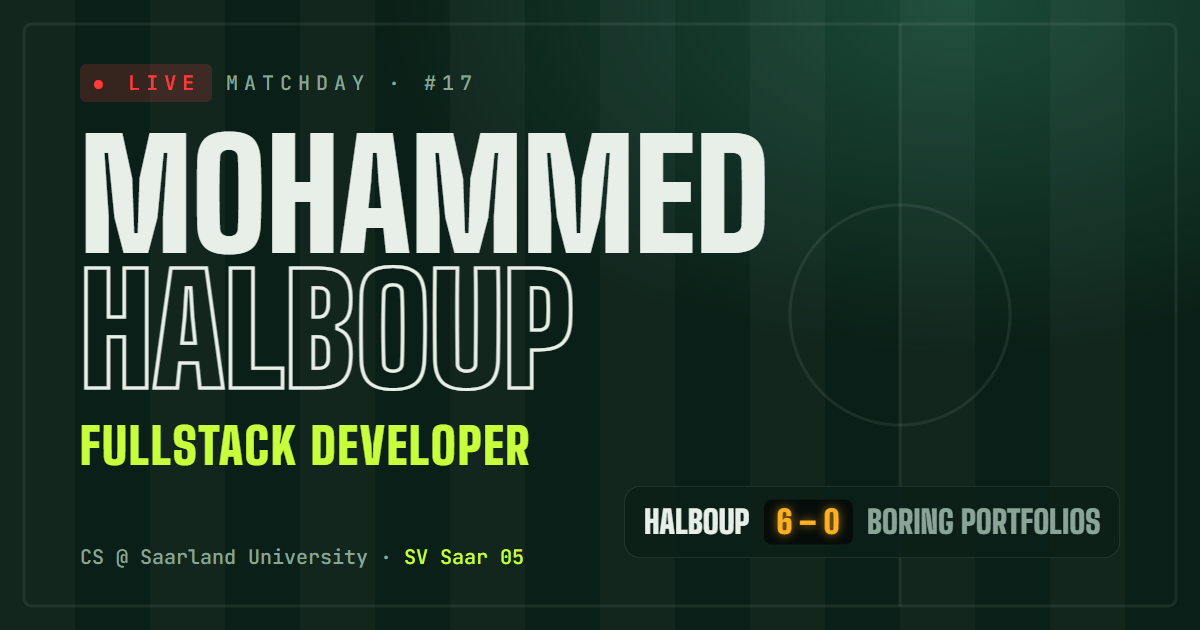
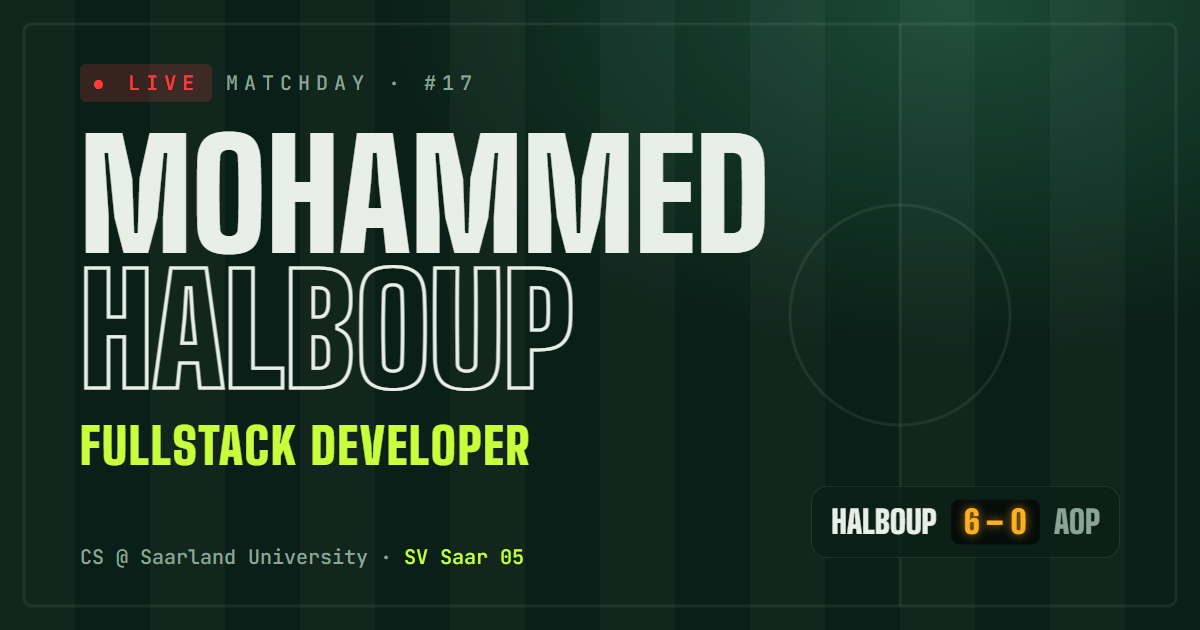
feat: the opponent is now AOP, explained by a new aop VAR command
AOP replaces "Boring Portfolios" on the scoreboard, half-time stats,
footer and OG image. `aop` in the VAR explains it (Aspect-Oriented
Programming... but here, Any Other Portfolio), and the half-time strip
has an "Ask the VAR" link that opens the VAR and runs it.

Changed region(s): [[0.5242, 0.7841, 0.925, 0.8746]]

diff --git a/src/config/ui.ts b/src/config/ui.ts
@@ -8,7 +8,11 @@ export const PLAYER = {
   club: "SV Saar 05",
   uni: "Saarland University",
   uniShort: "UdS",
-  rival: "Boring Portfolios",
+  rival: "AOP",
+  rivalMeaning: [
+    "AOP stands for Aspect-Oriented Programming: A programming paradigm that helps separate cross-cutting concerns (like logging, security, or transaction management) from core business logic.",
+    "But here and in this portfolio, it means Any Other Portfolio",
+  ],
 };
 
 // Match minute each section "kicks off" at, used by the scoreboard clock.
@@ -62,7 +66,9 @@ export interface FormationSlot {
 export const formationSlots = (count: number): FormationSlot[] => {
   const rows =
     FORMATIONS[count] ??
-    Array.from({ length: Math.ceil(count / 4) }, (_, i) => Math.min(4, count - i * 4));
+    Array.from({ length: Math.ceil(count / 4) }, (_, i) =>
+      Math.min(4, count - i * 4),
+    );
   const slots: FormationSlot[] = [];
   rows.forEach((size, row) => {
     const y = rows.length === 1 ? 50 : 18 + (row * 64) / (rows.length - 1);
@@ -76,11 +82,14 @@ export const formationSlots = (count: number): FormationSlot[] => {
 // Squad numbers for projects. #17 is reserved for Mohammed.
 const SQUAD_NUMBERS = [9, 10, 7, 11, 8, 6, 4, 5, 3, 2, 14, 21, 23];
 
-export const squadNumber = (index: number) => SQUAD_NUMBERS[index] ?? index + 24;
+export const squadNumber = (index: number) =>
+  SQUAD_NUMBERS[index] ?? index + 24;
 
 // A project counts as a "hackathon winner" when a hackathon links to its source.
-export const isHackathonProject = (project: ProjectProps, hackathons: HackathonProps[]) =>
-  hackathons.some((h) => h.link && h.link === project.linkSource);
+export const isHackathonProject = (
+  project: ProjectProps,
+  hackathons: HackathonProps[],
+) => hackathons.some((h) => h.link && h.link === project.linkSource);
 
 export const deriveStats = (content: SiteContent) => {
   const tiers = content.hackathons.map((h) => trophyTier(h.rank));

diff --git a/README.md b/README.md
@@ -50,6 +50,7 @@ Also:
 | `goto <section>` | Scroll to a section (`experience`, `projects`, `hackathons`, `about`, `contact`) |
 | `cv` | Download the resume |
 | `contact` | Jump to the transfer desk |
+| `aop` | Who's the opponent on the scoreboard? |
 | `kickoff` | Replay the floodlights intro |
 | `penalty` | Score a penalty to unlock a random fact about Halboup |
 | `clear` / `exit` | Clear the screen / close |
